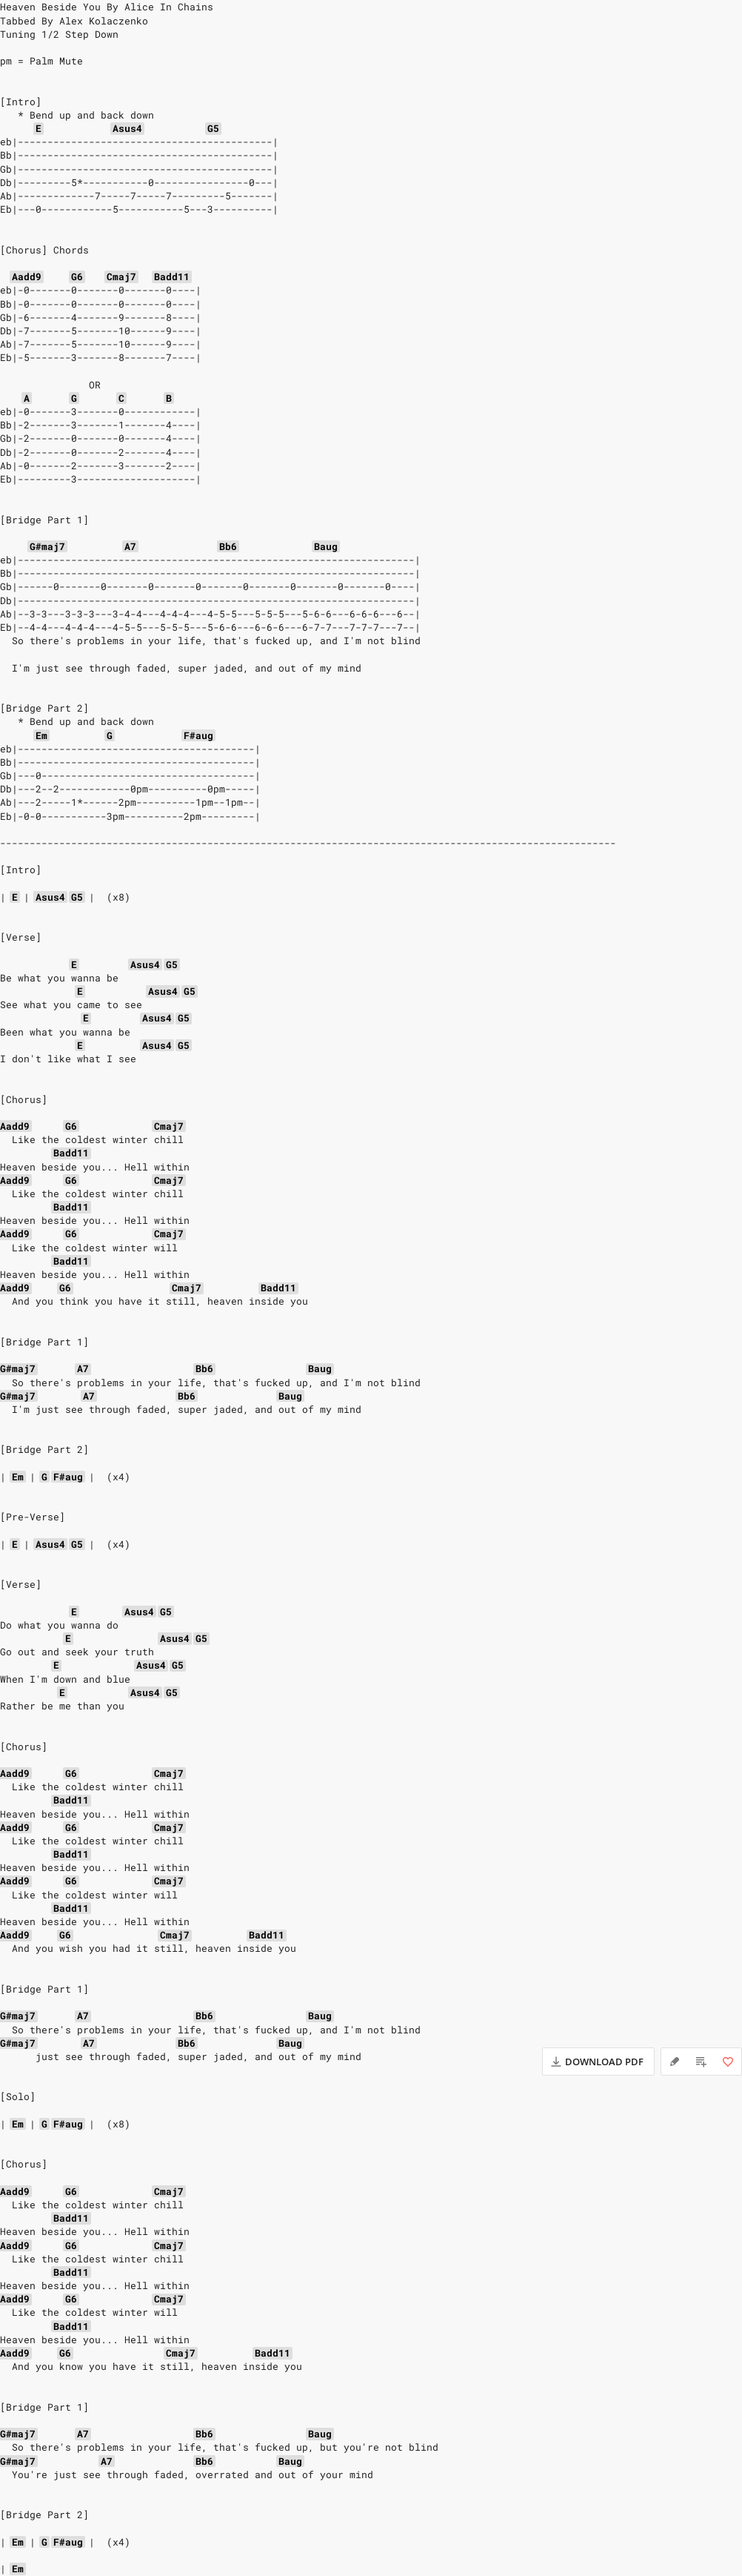
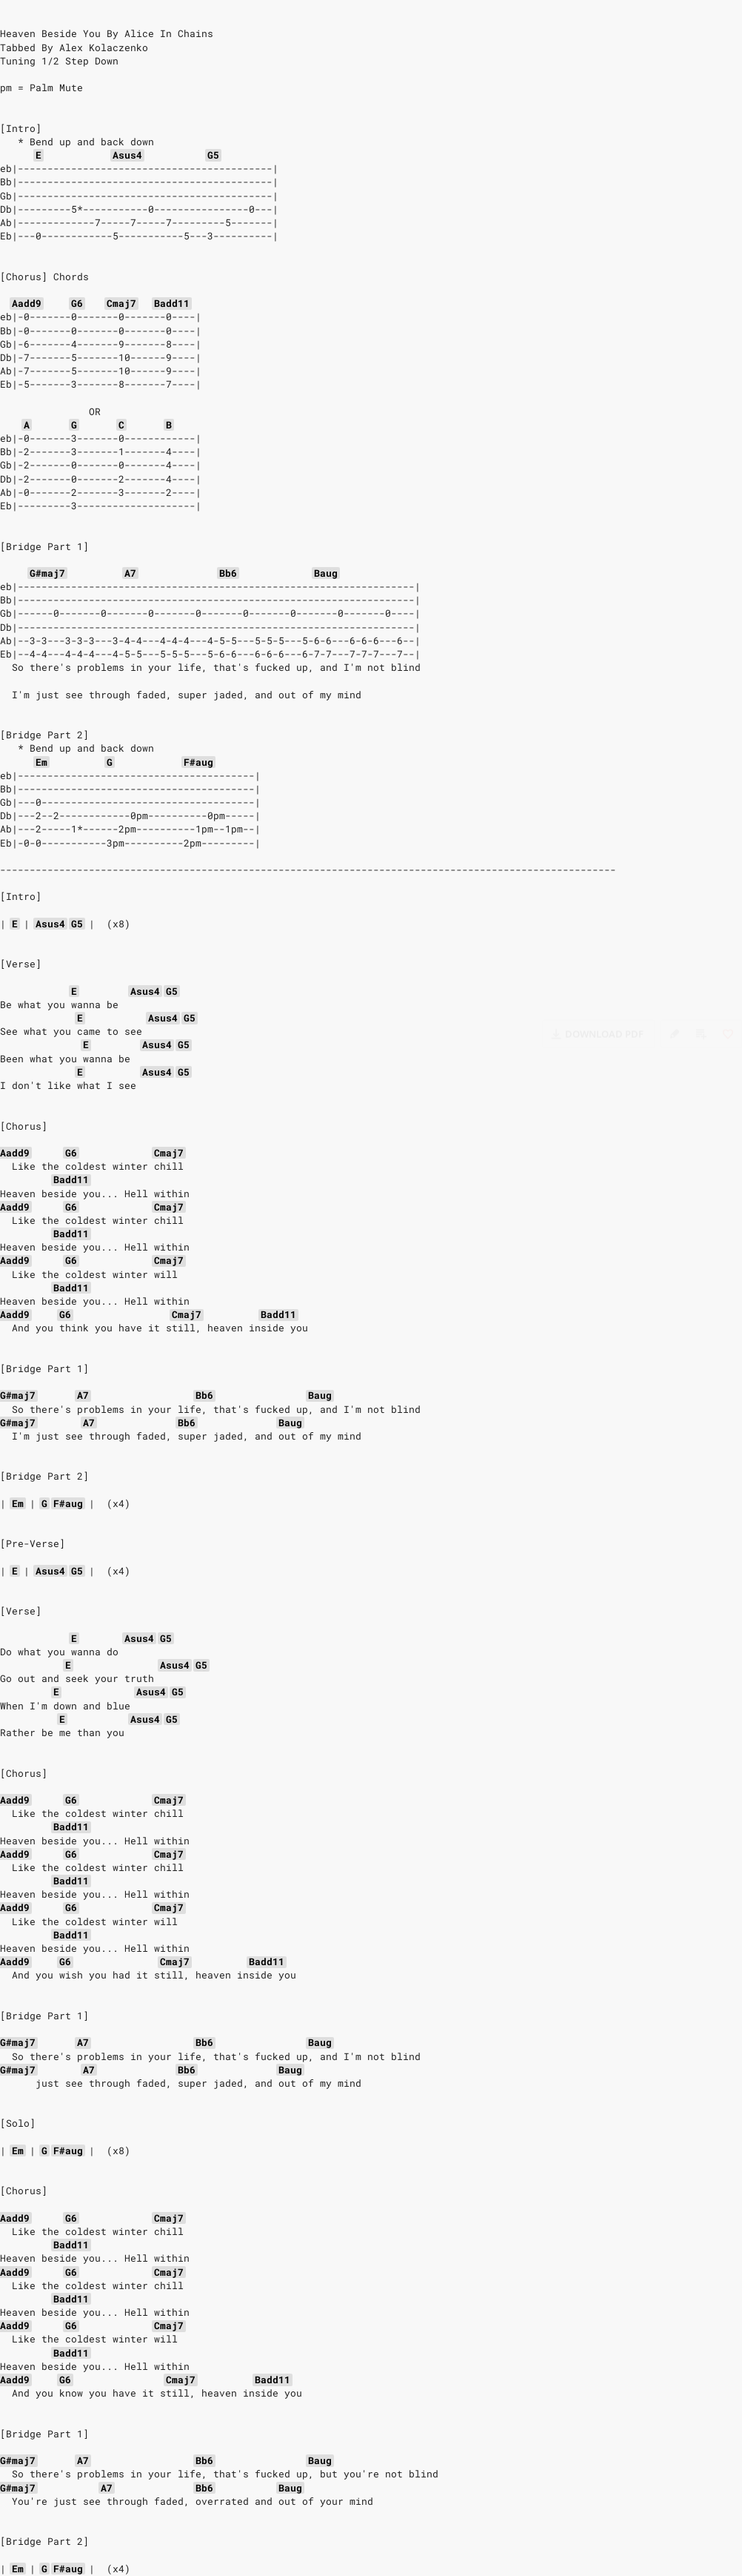
Remove scrollToBottom function

diff --git a/app.js b/app.js
@@ -2,13 +2,6 @@ const { chromium } = require('playwright');
 const fs = require('fs');
 const path = require('path');
 
-async function scrollToBottom(page) {
-    await page.evaluate(() => {
-        window.scrollBy(0, document.body.scrollHeight);
-    });
-    await page.waitForTimeout(1000);
-}
-
 async function clickElements(page) {
     await page.locator('xpath=/html/body/div[1]/div/div/div/div[2]/div/button[2]').click(); // Cookies disclaimer
     await page.locator('xpath=/html/body/div[2]/div[2]/div[1]/button').click(); // Discount banner
@@ -21,25 +14,21 @@ async function removeElements(page) {
         '/html/body/div[2]/div[2]/main/div[2]/article[1]/section[1]/section', // Download PDF top bar
         '/html/body/div[2]/div[2]/main/div[2]/article[1]/section[1]/div[1]', // Header bloat buttons
         //'/html/body/div[2]/div[2]/main/div[2]/article[1]/section[2]/article/aside' // Float pdf download bar
+        
     ];
 
     for (const xpath of xpaths) {
-        try {
-            await page.waitForSelector(`xpath=${xpath}`, { state: 'visible', timeout: 5000 });
-            await page.evaluate((path) => {
-                const element = document.evaluate(path, document, null, XPathResult.FIRST_ORDERED_NODE_TYPE, null).singleNodeValue;
-                if (element && element.parentNode) {
-                    element.parentNode.removeChild(element);
-                }
-            }, xpath);
-        } catch (error) {
-            console.log(`Timeout error while trying to remove element with xpath ${xpath}. Continuing with the next element.`);
-        }
+        await page.waitForSelector(`xpath=${xpath}`, { timeout: 5000 });
+        await page.evaluate((path) => {
+            const element = document.evaluate(path, document, null, XPathResult.FIRST_ORDERED_NODE_TYPE, null).singleNodeValue;
+            if (element && element.parentNode) {
+                element.parentNode.removeChild(element);
+            }
+        }, xpath);
     }
 }
 
 async function takeScreenshot(page, xpath, folderName, screenshotName) {
-    await scrollToBottom(page);
     await clickElements(page);
     await removeElements(page);
     await page.locator(`xpath=${xpath}`).screenshot({ path: path.join(folderName, `${screenshotName}.png`) });
